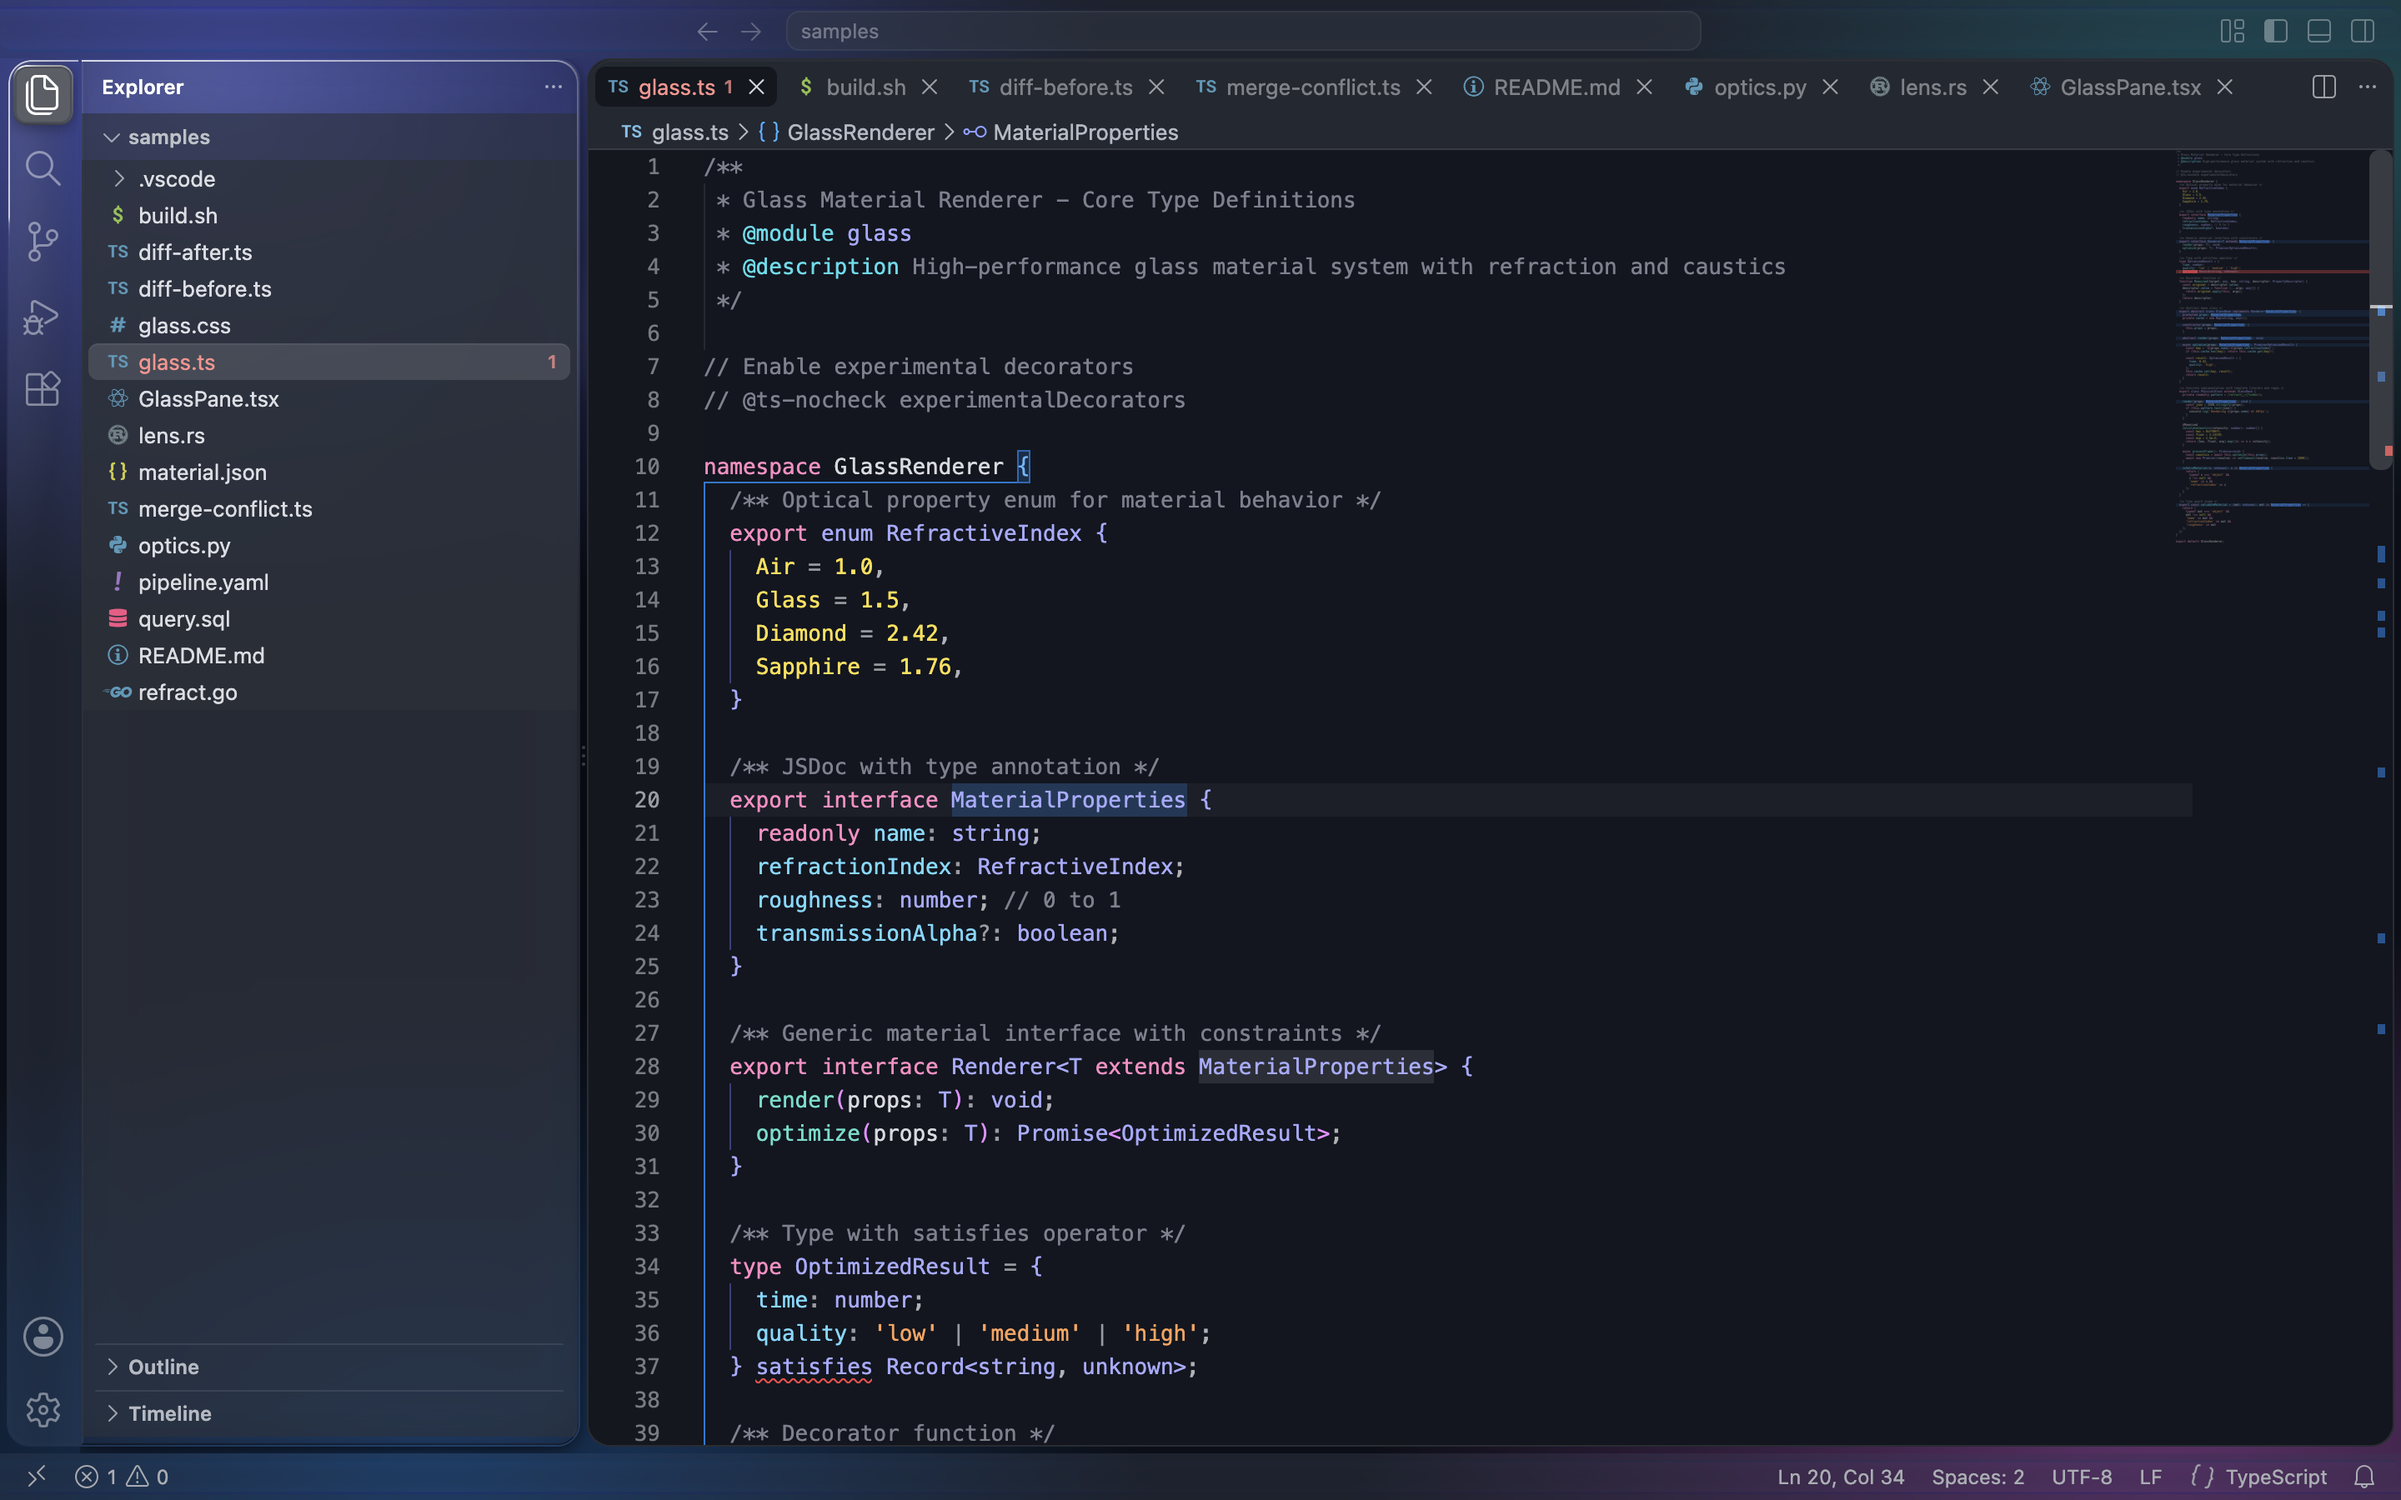
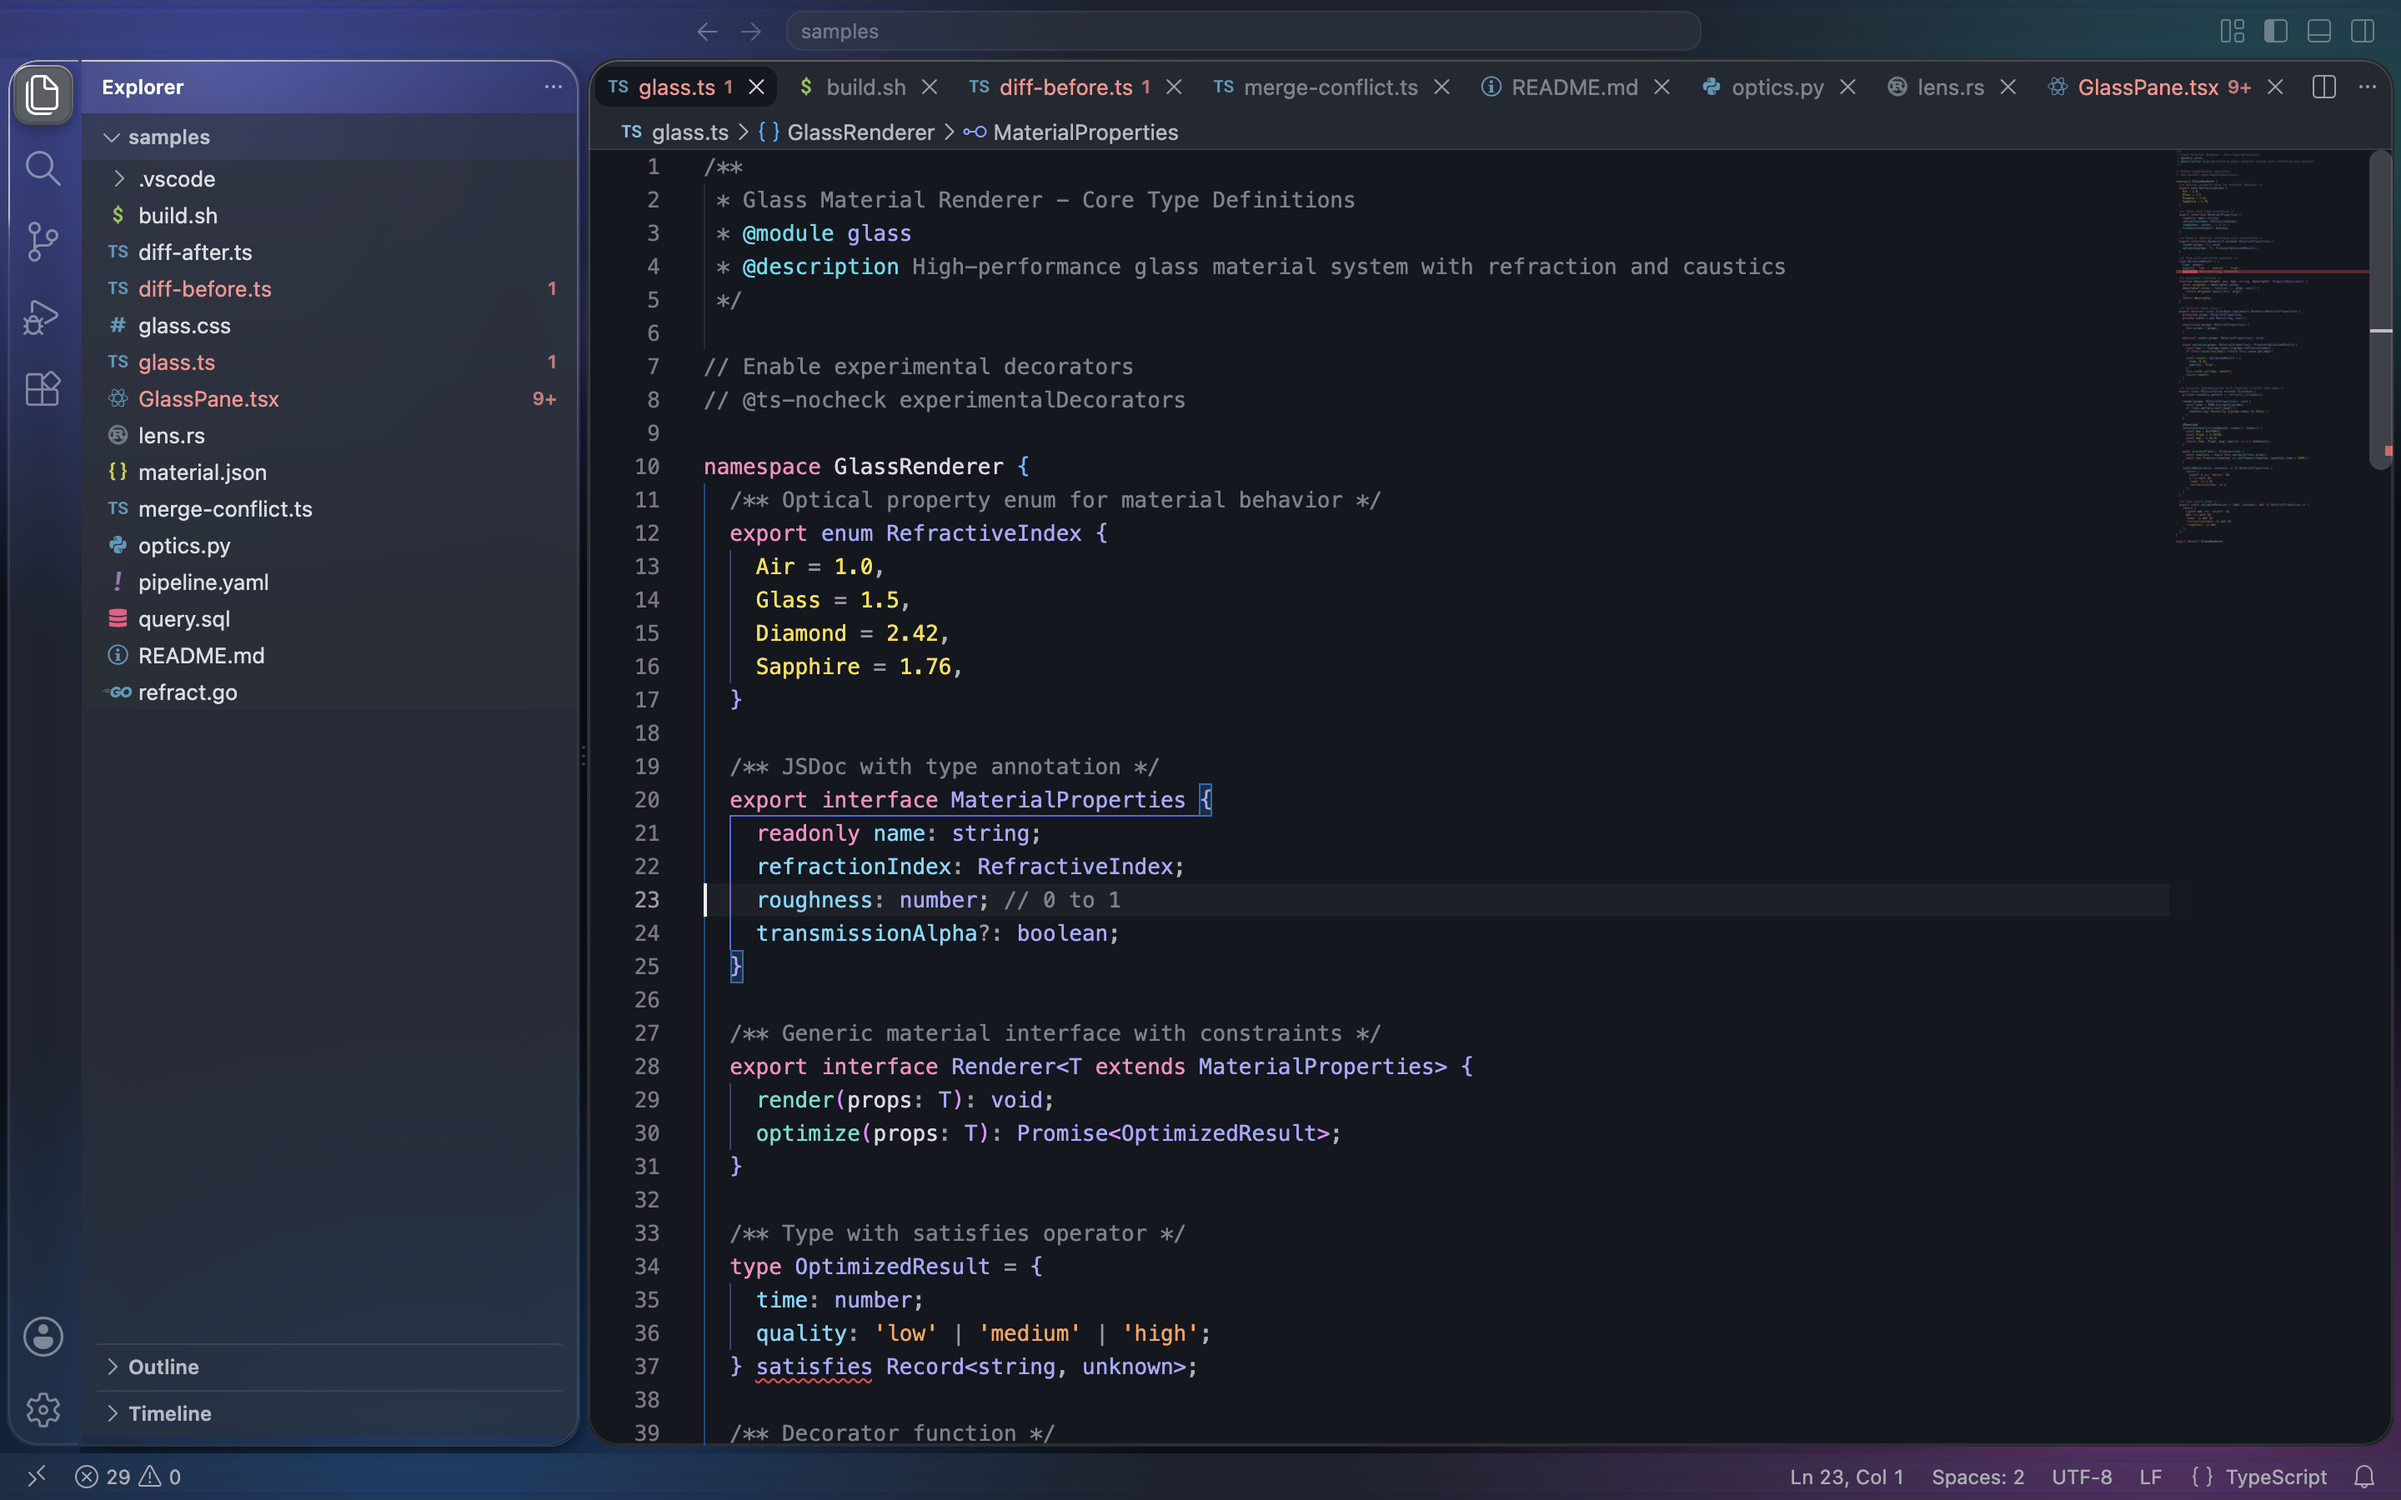
Do not override floating-card margins (JS layout desync); screenshot script never types into the editor

diff --git a/glass/glass.css b/glass/glass.css
@@ -331,10 +331,9 @@
   --vscode-cornerRadius-medium: var(--vsg-radius-control);
   --vscode-cornerRadius-large: var(--vsg-radius-card);
   --vscode-cornerRadius-xLarge: var(--vsg-radius-card);
-  /* floating layout gaps: a touch wider than VS Code's default so the panes visibly float */
-  --modern-ui-floating-card-margin: 10px;
-  --modern-ui-floating-card-inner-margin: 8px;
-  --modern-ui-floating-card-outer-margin: 10px;
+  /* NOTE: the floating-card margins (--modern-ui-floating-card-*) are deliberately NOT overridden: VS Code's
+     grid layout computes pane sizes in JS from its own constants, so CSS-only margin changes make list rows
+     overflow their cards. */
   /* backdrop filter stacks */
   --vsg-filter-chrome: saturate(var(--vsg-saturate)) brightness(var(--vsg-brightness)) contrast(var(--vsg-contrast));
   --vsg-filter-widget: saturate(var(--vsg-saturate)) brightness(var(--vsg-brightness)) contrast(var(--vsg-contrast));

diff --git a/src/glass/glass.css b/src/glass/glass.css
@@ -25,10 +25,9 @@
   --vscode-cornerRadius-medium: var(--vsg-radius-control);
   --vscode-cornerRadius-large: var(--vsg-radius-card);
   --vscode-cornerRadius-xLarge: var(--vsg-radius-card);
-  /* floating layout gaps: a touch wider than VS Code's default so the panes visibly float */
-  --modern-ui-floating-card-margin: 10px;
-  --modern-ui-floating-card-inner-margin: 8px;
-  --modern-ui-floating-card-outer-margin: 10px;
+  /* NOTE: the floating-card margins (--modern-ui-floating-card-*) are deliberately NOT overridden: VS Code's
+     grid layout computes pane sizes in JS from its own constants, so CSS-only margin changes make list rows
+     overflow their cards. */
   /* backdrop filter stacks */
   --vsg-filter-chrome: saturate(var(--vsg-saturate)) brightness(var(--vsg-brightness)) contrast(var(--vsg-contrast));
   --vsg-filter-widget: saturate(var(--vsg-saturate)) brightness(var(--vsg-brightness)) contrast(var(--vsg-contrast));
